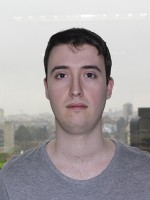
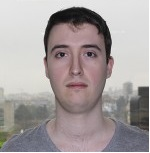
commit

diff --git a/Proyecto Salto Base/app/main.js b/Proyecto Salto Base/app/main.js
@@ -3,6 +3,7 @@ export class Main {
     console.log("Main loaded");
     this.vista = {
       aBtnsMenu: document.querySelectorAll("a"),
+      imagenes: document.querySelectorAll("img"),
       eArticle: document.querySelector("article"),
       body: document.querySelector("body"),
       eMain: document.querySelector("main"),
@@ -31,11 +32,16 @@ export class Main {
       () => this.desplegarMenu(),
       false
     );
-
+    this.vista.imagenes.forEach(item =>{
+      item.addEventListener("click",requestFullscreen);
+    });
     var myWorker = new Worker("./app/worker.js");
     myWorker.onmessage = function(oEvent) {
       this.vista.reloj.innerHTML = oEvent.data;
     }.bind(this);
+  }
+  requestFullscreen(oEv){
+   
   }
   menuItems(oEv) {
     this._cargarTemplate(oEv.target.title);

diff --git a/Proyecto Salto Base/dist/css/style.css b/Proyecto Salto Base/dist/css/style.css
@@ -39,8 +39,8 @@ html {
 header {
   display: flex;
   justify-content: space-between;
-  margin-left: -6%;
-  margin-right: -6%;
+  margin-left: -5%;
+  margin-right: -5%;
   padding: 15px;
   margin-bottom: 3%;
   background-color: white;
@@ -108,8 +108,8 @@ footer {
   font-weight: bold;
   font-size: 1rem;
   margin-top: 3%;
-  width: 100%;
-  margin-left: 0%; }
+  width: 110%;
+  margin-left: -5%; }
   footer figure {
     float: right; }
     footer figure img {
@@ -132,6 +132,9 @@ footer {
 img {
   width: 100%;
   height: 100%; }
+  img-webkit-full-screen {
+    width: 100%;
+    height: 100%; }
 
 .oculto {
   display: none !important; }

diff --git a/Proyecto Salto Base/sass/style.scss b/Proyecto Salto Base/sass/style.scss
@@ -22,8 +22,8 @@ html{
 header{
     display: flex;
     justify-content: space-between;
-    margin-left: -6%;
-    margin-right: -6%;
+    margin-left: -5%;
+    margin-right: -5%;
     padding: 15px;
     margin-bottom: 3%;
     background-color: white;
@@ -110,8 +110,9 @@ footer {
     font-weight: bold;
     font-size: 1rem;
     margin-top: 3%;
-    width:100%;
-    margin-left: 0%;
+    width:110%;
+    margin-left: -5%;
+   
     figure{
         float:right;
         img{
@@ -141,6 +142,10 @@ footer {
 img {
     width: 100%;
     height: 100%;
+  &-webkit-full-screen{
+    width: 100%;
+    height: 100%;
+  }    
 }
 
 .oculto{

diff --git a/Proyecto Salto Base/dist/css/style_about.css b/Proyecto Salto Base/dist/css/style_about.css
@@ -10,7 +10,7 @@
 
 figure {
   width: 100%;
-  height: 100%; }
+  max-height: 100%; }
 
 article {
   padding: 2%;
@@ -28,7 +28,9 @@ section {
 img {
   padding: 2%;
   width: 100%;
-  height: 100%; }
+  height: 100%;
+  max-height: 300px;
+  max-width: 300px; }
 
 strong {
   font-weight: bold; }
@@ -90,7 +92,12 @@ li label:nth-of-type(2) {
   border: solid 1px grey;
   padding: 1rem; }
 
+.cv {
+  padding-top: 5%; }
+
 .contacta {
+  padding-top: 10%;
+  height: 100%;
   width: 100%;
   padding-left: 1rem; }
 

diff --git a/Proyecto Salto Base/sass/style_about.scss b/Proyecto Salto Base/sass/style_about.scss
@@ -10,7 +10,7 @@
 }
 figure {
   width: 100%;
-  height: 100%;
+  max-height: 100%;
 }
 article {
   padding: 2%;
@@ -29,6 +29,8 @@ img {
   padding: 2%;
   width: 100%;
   height: 100%;
+  max-height: 300px;
+  max-width: 300px;
 }
 strong {
   font-weight: bold;
@@ -99,7 +101,12 @@ li {
   border: solid 1px grey;
   padding: 1rem;
 }
+.cv{
+    padding-top: 5%;
+}
 .contacta {
+    padding-top:10%;
+  height: 100%;
   width: 100%;
   padding-left: 1rem;
 }

diff --git a/Proyecto Salto Base/templates/about.html b/Proyecto Salto Base/templates/about.html
@@ -20,7 +20,7 @@
             </figure>
         </article>
         <article class="autores">
-            <section class="left">
+            <section class="left cv">
                 <p>
                     <strong>Nombre:</strong> Jesús Perucha</p>
                 <p>
